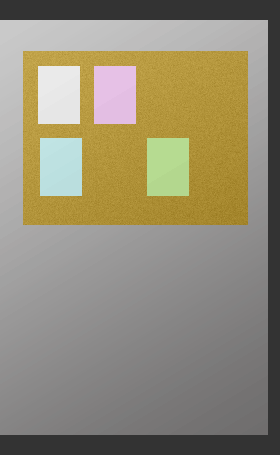
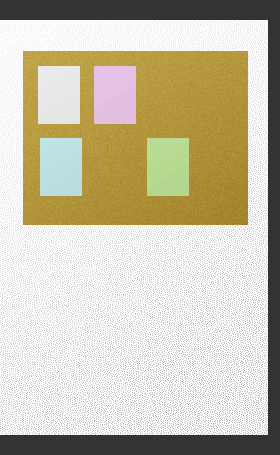
change sky elevator

diff --git a/index.html b/index.html
@@ -285,7 +285,7 @@
             position: absolute;
             left: 76%;
             top: 40%;
-            width: 17%;
+            width: 15%;
             z-index: 2;
         }
         .ATT_project {
@@ -883,7 +883,7 @@
 <body>
     <div class="body-wrap">
         <div class="background_div">
-            <img src="sky4.png" class="background_img">
+            <img src="sky6.png" class="background_img">
         </div>
         <div class="loading_page">
             <div class='loader loader--circularSquare'></div>
